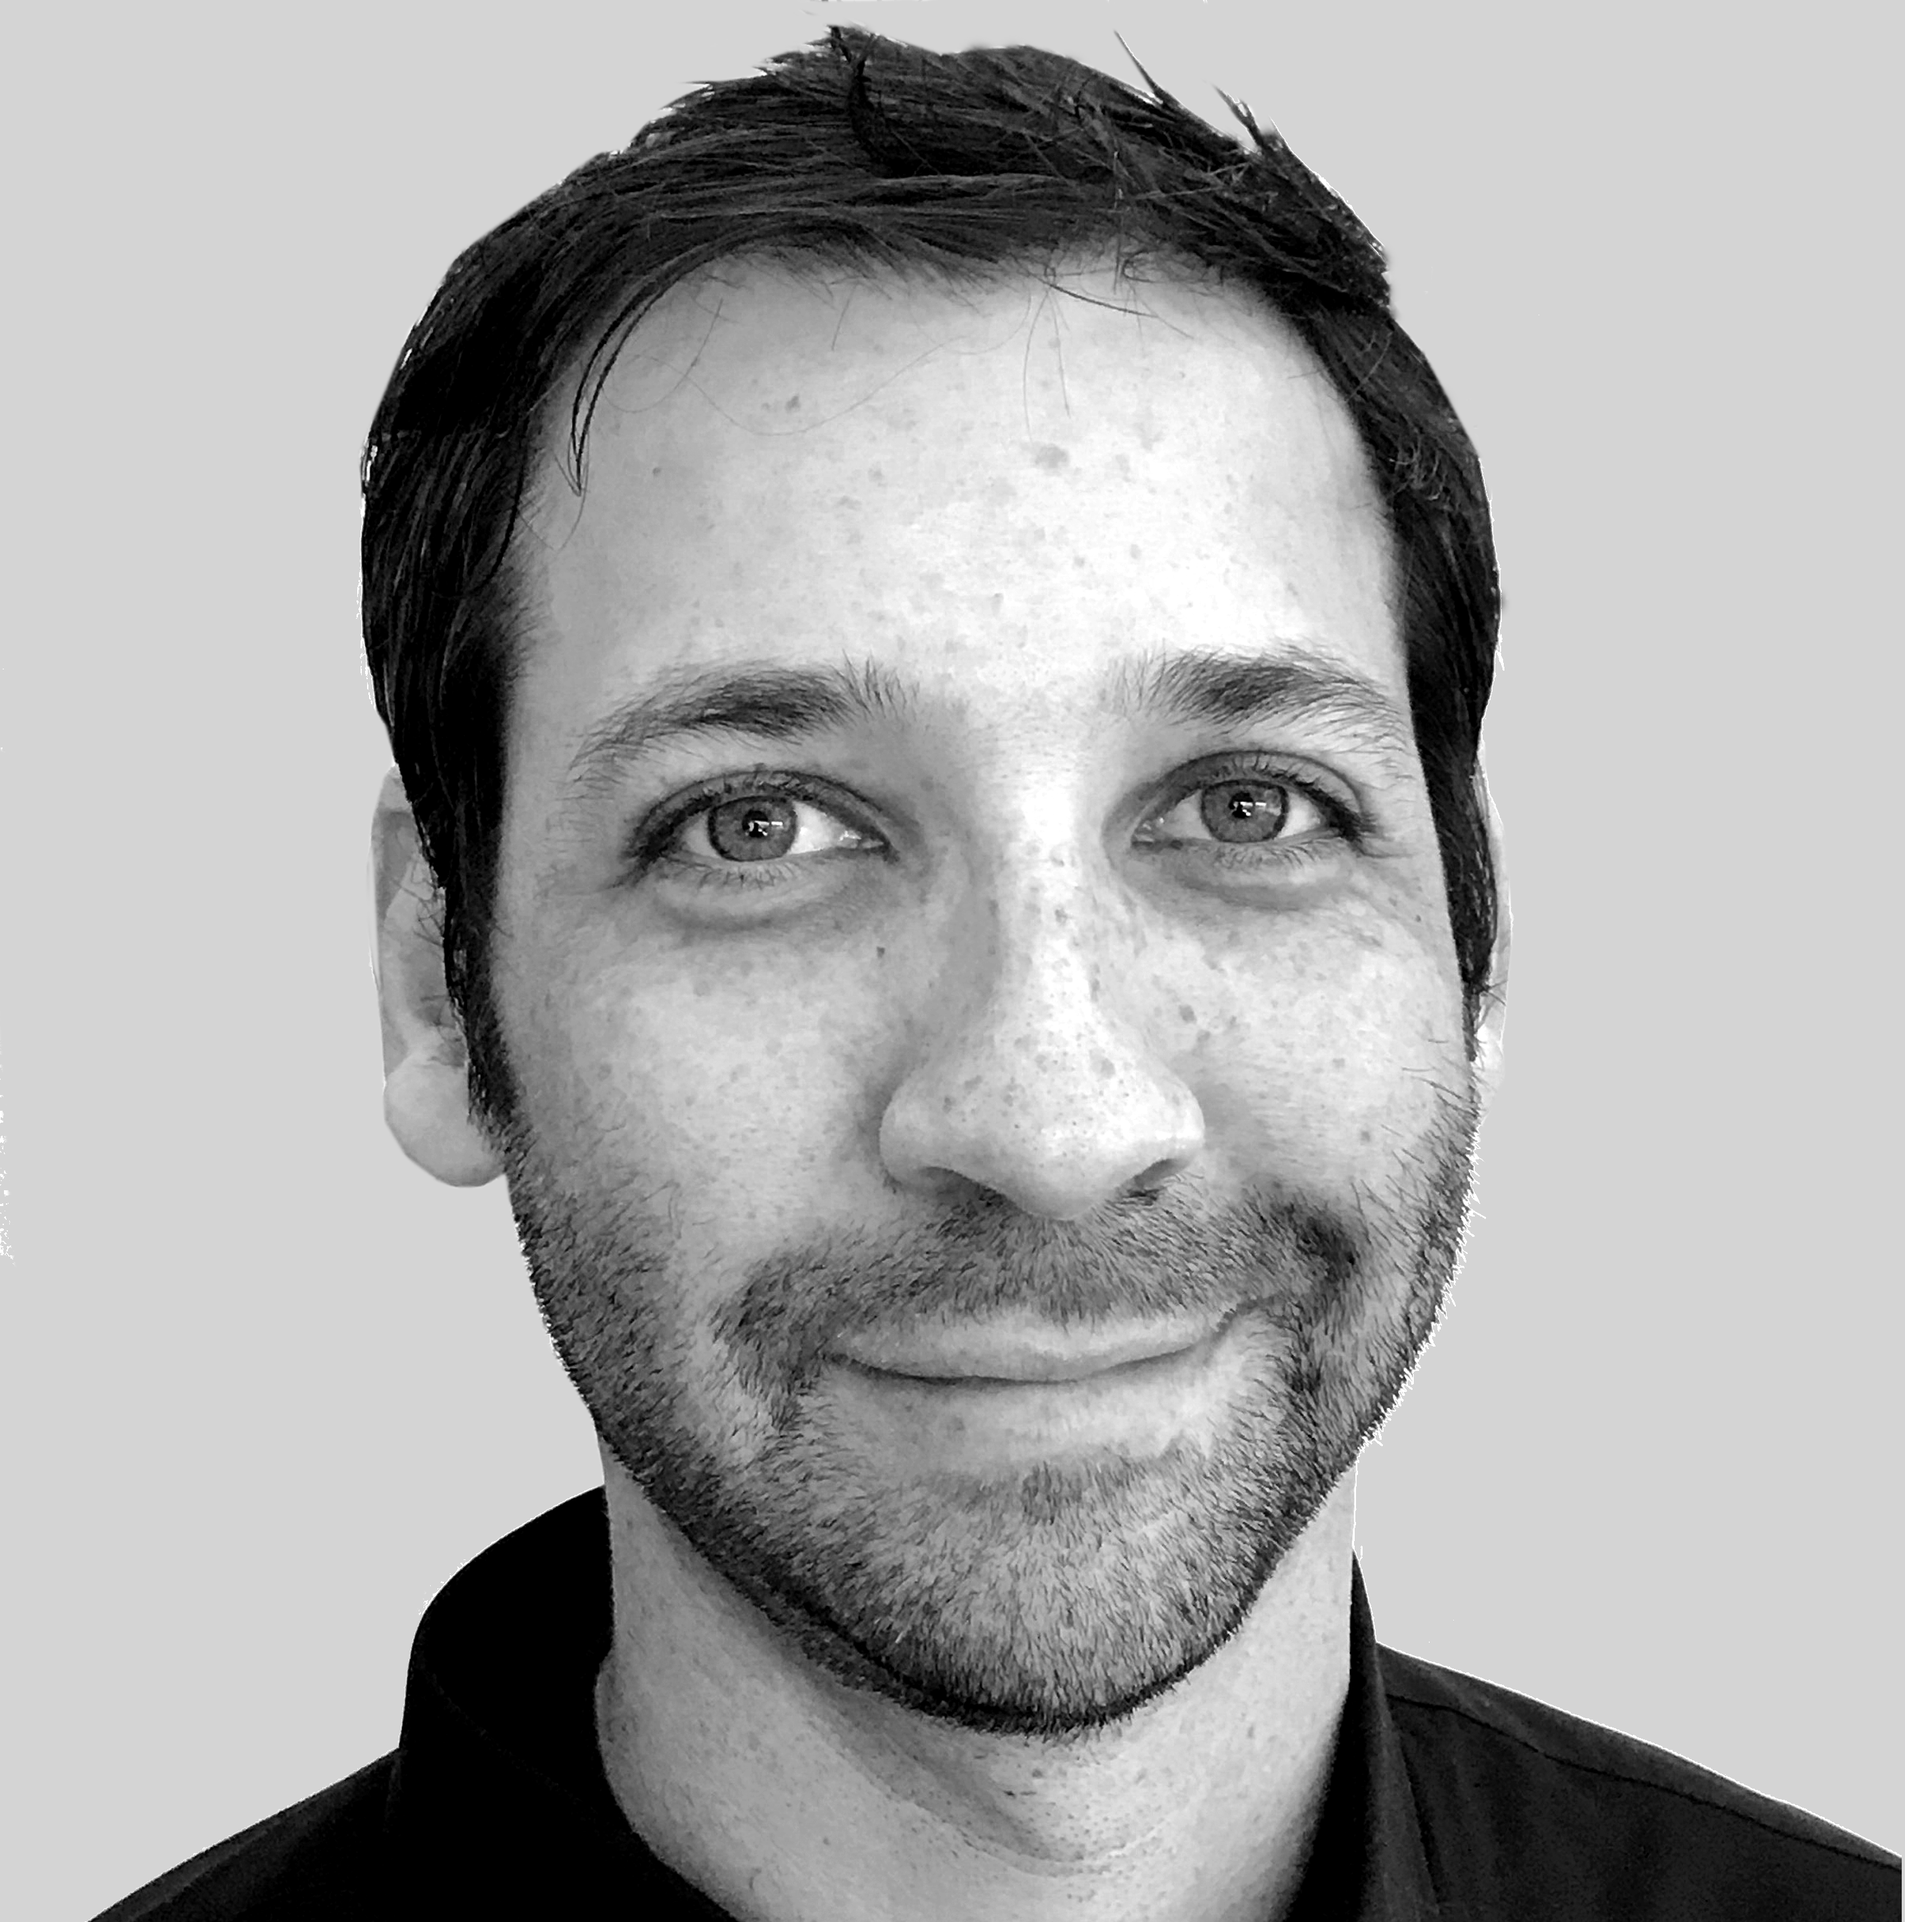
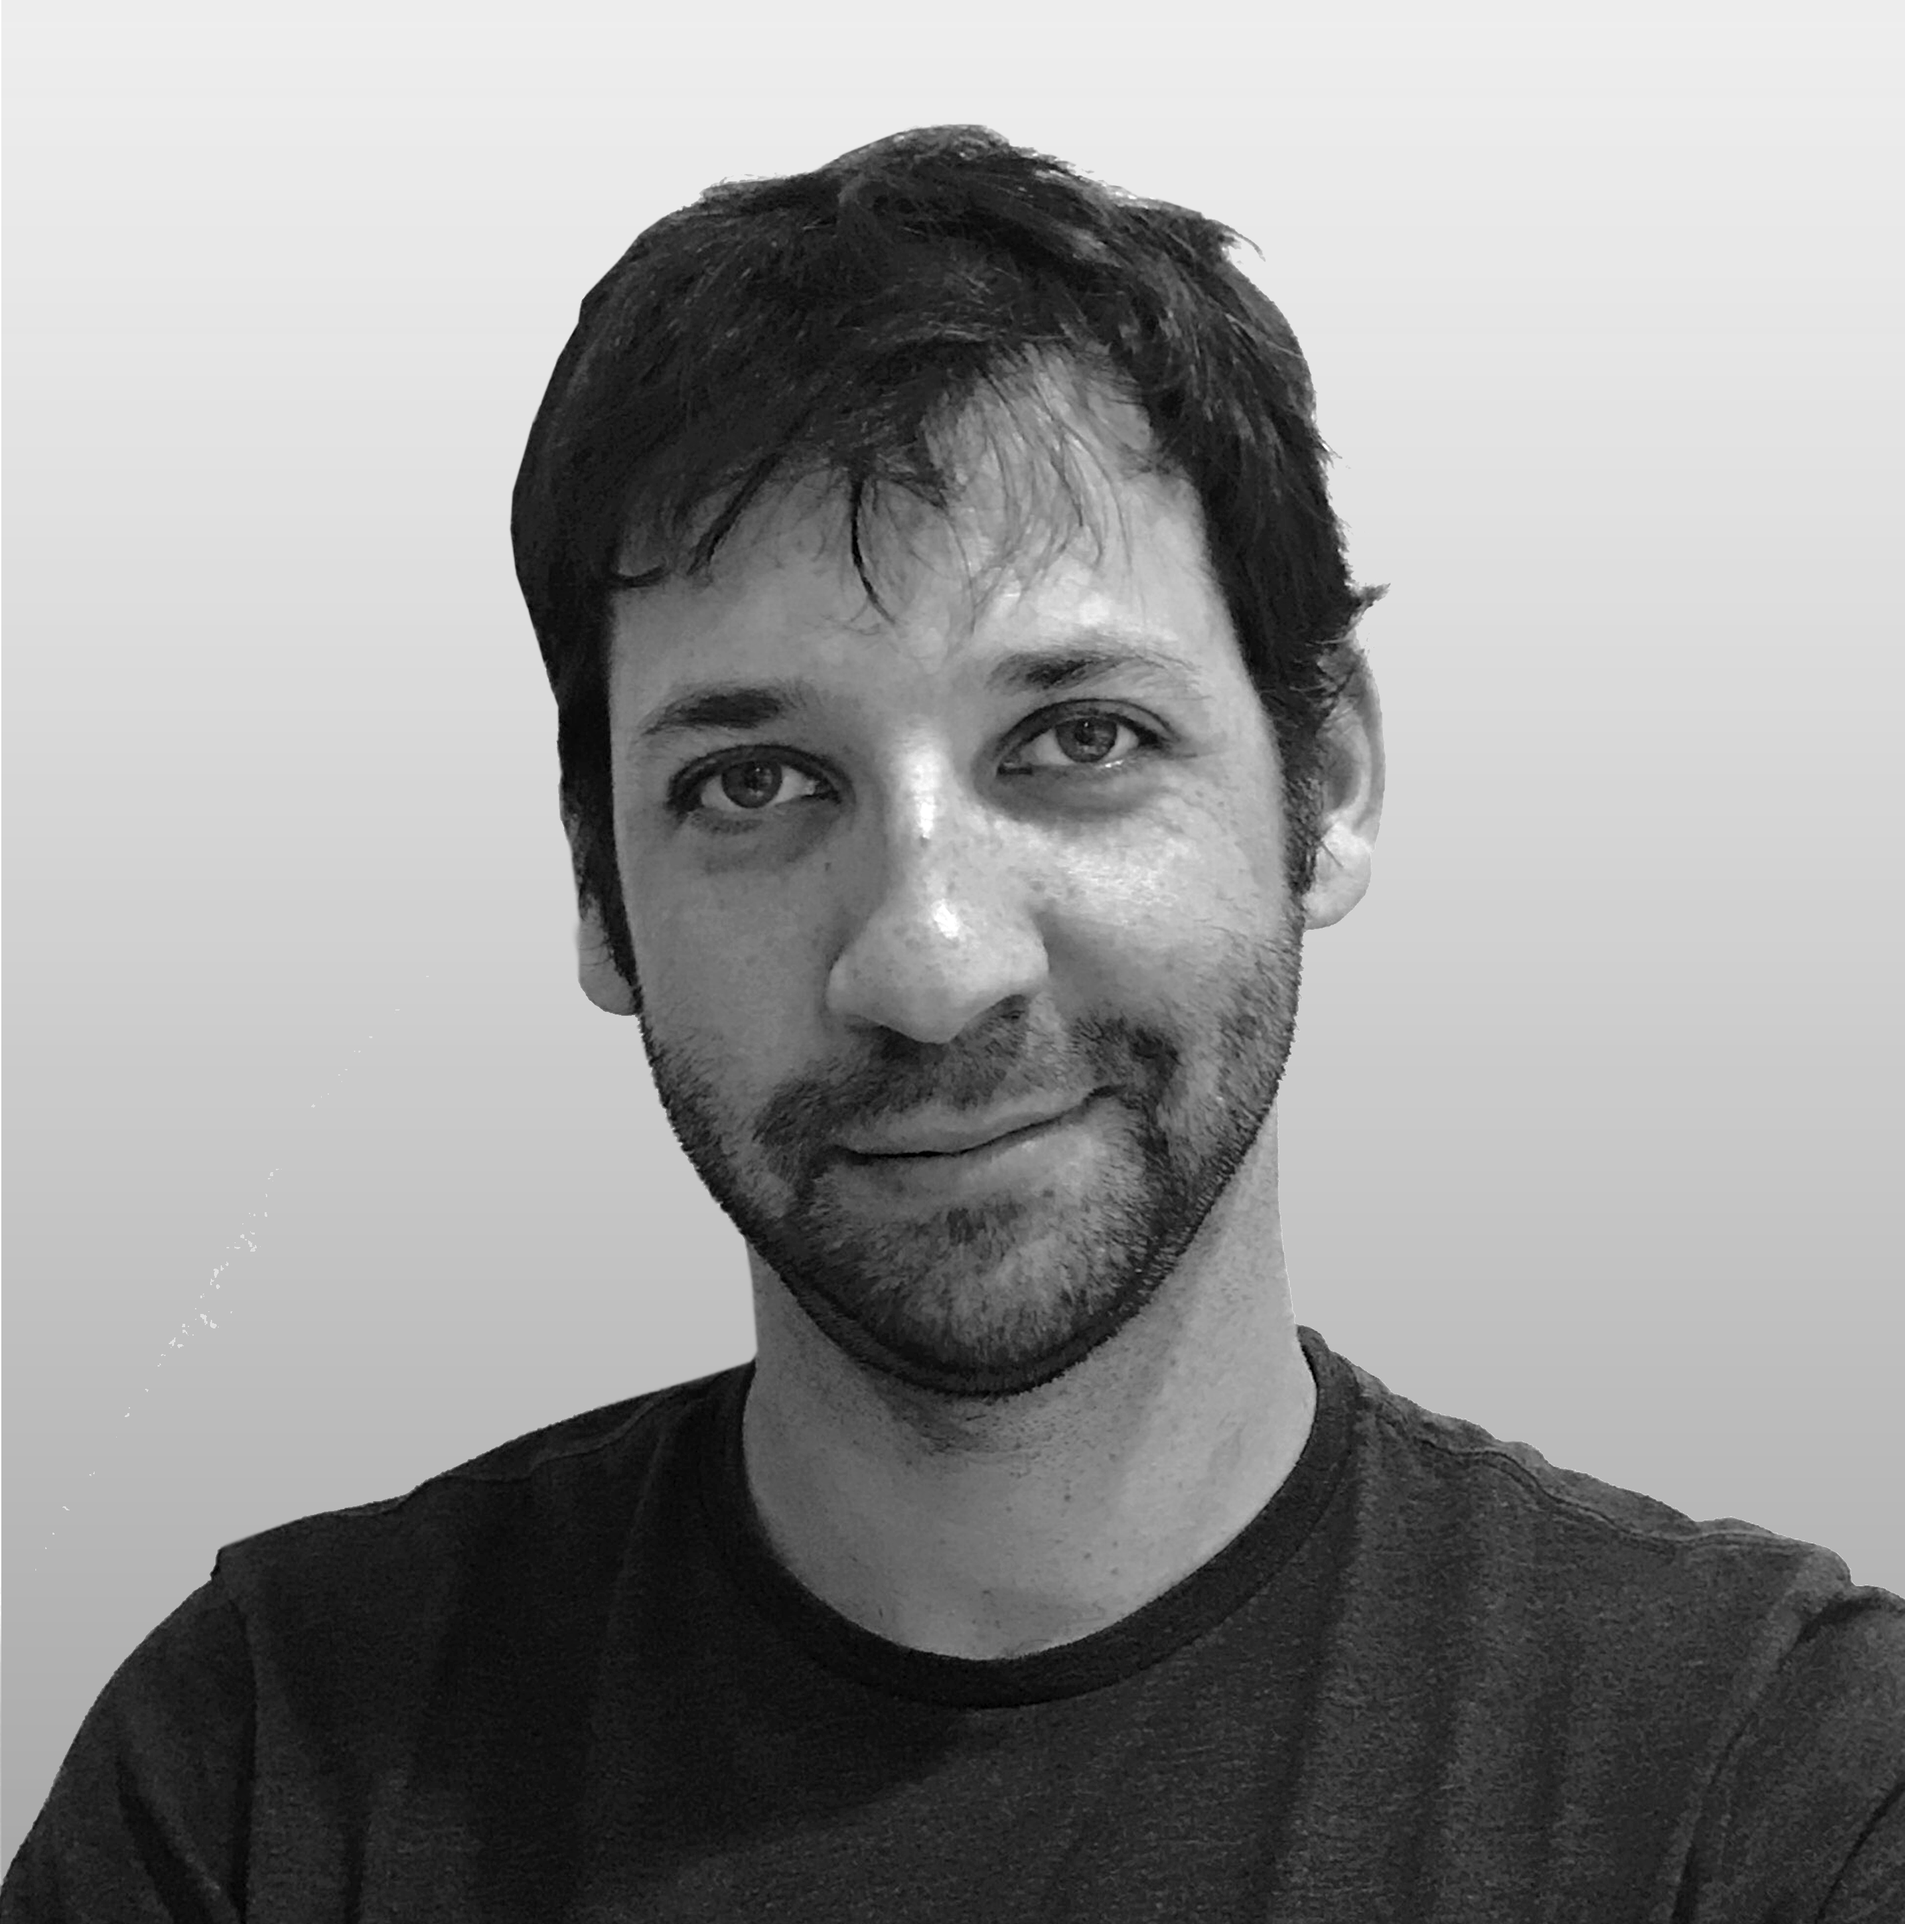
fix michael photo and scroll bug

diff --git a/css/landing-page.css b/css/landing-page.css
@@ -49,8 +49,8 @@ h4,
 h5,
 h6 {
     font-family: "Neuzeit Grotesk W01 Reg1487164","Helvetica Neue",Helvetica,Arial,sans-serif;
-
 }
+
 .clearfix{
   clear:both;
 }
@@ -70,9 +70,10 @@ h6 {
 }
 .list-inline img{
   height:60px;
-
 }
-
+.list-inline a img:hover{
+  opacity: .5;
+}
 .lead {
   font-size: 18px;
   line-height: 24px;
@@ -168,6 +169,7 @@ ul.navbar-right li{
   border: 2px solid #2B67DB;
   color: #2B67DB;
   background-color:transparent;
+
 
 }
 .btn-lg:hover{
@@ -466,8 +468,8 @@ ul.navbar-right li{
 
 .investors {
     background-color: #FFF;
-    -webkit-clip-path: polygon(0 10%, 100% 0, 100% 100%, 0 100%);
-   clip-path: polygon(0 10%, 100% 0, 100% 100%, 0 100%);
+    -webkit-clip-path: polygon(0 10%, 100% 0, 100% 90%, 0 100%);
+   clip-path: polygon(0 10%, 100% 0, 100% 90%, 0 100%);
    margin-top:-140px;
    padding-bottom:100px;
    padding-top:180px;
@@ -477,14 +479,10 @@ ul.navbar-right li{
 
 footer {
     color:#fff;
-
     background-color: #2B67DB;
-    -webkit-clip-path: polygon(0 20%, 100% 0, 100% 100%, 0 100%);
-   clip-path: polygon(0 20%, 100% 0, 100% 100%, 0 100%);
-   margin-top:-50px;
+   margin-top:-150px;
    padding: 250px 0 100px 0;
-   position: relative;
-   z-index: 1000;
+
 }
 
 
@@ -518,8 +516,10 @@ footer {
 
   }
 .form {
+  display: block;
   width: 60%;
   margin: 0 auto;
+
 }
 .copyright.text-muted.small{
   font-family: "NeuzeitGroLig W01 Regular","Helvetica Neue",Helvetica,Arial,sans-serif;

diff --git a/_includes/footer.html b/_includes/footer.html
@@ -1,9 +1,7 @@
 <!-- Footer -->
 <footer id="signup" >
-  <div class="container content-section text-center">
-    <div class="row">
-      <div class="form">
 
+      <div class="form">
 
         <!-- Begin MailChimp Signup Form -->
                  <style type="text/css">
@@ -78,9 +76,6 @@
                    var $mcj = jQuery.noConflict(true);
                  </script>
                  <!--End mc_embed_signup-->
-
-
-
       </div>
     </div>
   </div>
